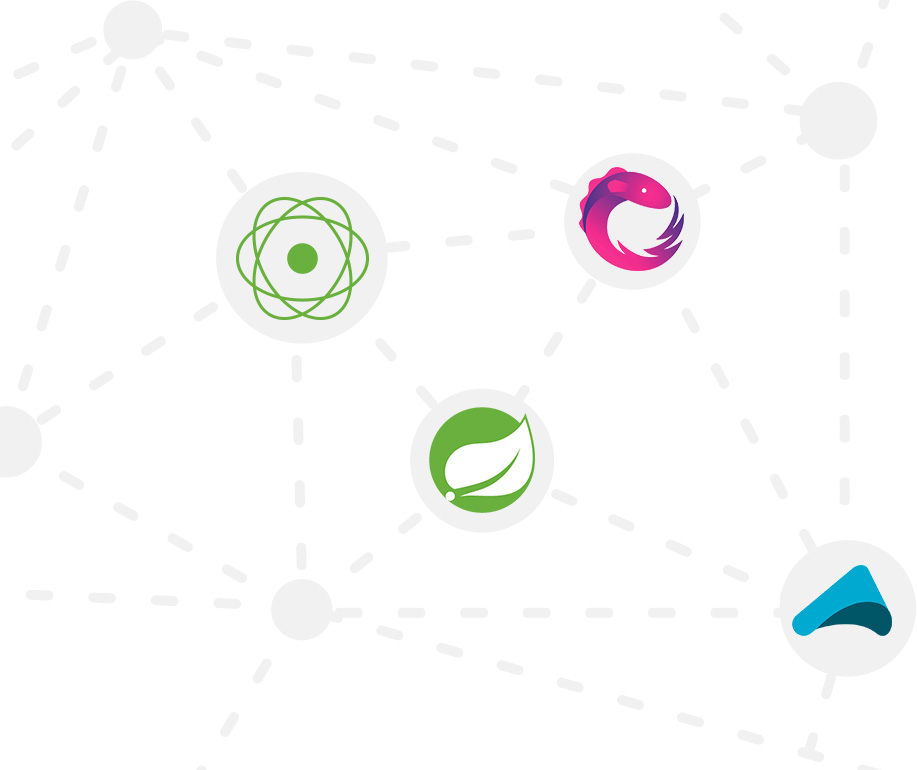
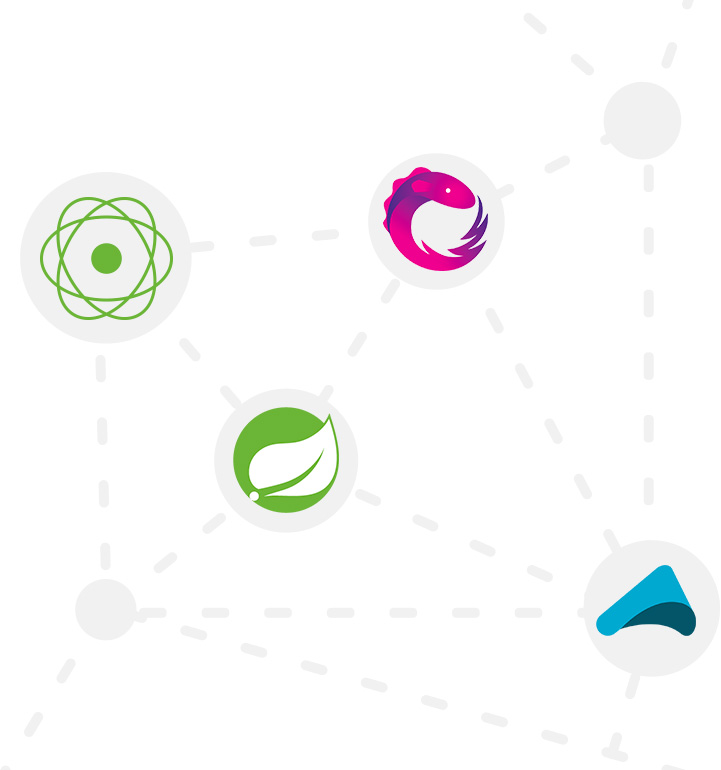
Homepage: large resolution adaptation

diff --git a/src/main/static/assets/css/main.scss b/src/main/static/assets/css/main.scss
@@ -164,7 +164,9 @@ body {
   .footer-content {
     @include clearfix();
     @extend .container;
-    max-width: 1000px;
+    max-width: 1100px;
+    padding: 0 1.5em;
+    
   }
   nav, nav ul {
     margin: 0;
@@ -384,7 +386,6 @@ span.logo-reactor {
 section#key-features {
   article {
     border-top: 1px solid #CCC;
-    padding: 3.5em 0 4em;
     font-family: $reactorFontSpecial;
     font-weight: 400;
     font-size: 16px;
@@ -395,8 +396,9 @@ section#key-features {
     div {
       max-width: 650px;
       margin: 0 auto;
-      padding: 0 2em;
+      padding: 3.5em 0 4em;
       padding-right: 350px;
+      padding-left: 20px;
       position: relative;
     }
     h1 {
@@ -407,13 +409,15 @@ section#key-features {
     }
     span.icon {
       position: absolute;
-      top: 10px;
+      top: 70px;
       right: 10px;
 
     }
     &.turbo-message-passing {
-      background: url('../img/turbomessage-bg.jpg') no-repeat right 20px;
-      background-size: 446px 353px;
+      div {
+        background: url('../img/turbomessage-bg.jpg') no-repeat right 20px;
+        background-size: 446px 353px;
+      }
       span.icon {
         display: block;
         width: 166px;
@@ -425,18 +429,21 @@ section#key-features {
 
     }
     &.friendly-adoption {
+      background: white;
       div {
-        padding-right: 0;
+        padding-right: 20px;
         padding-left: 350px;
         text-align: right;
+        background: white url('../img/friendlyadoption-bg.jpg') no-repeat left center;
+        background-size: 360px 385px;
       }
-      background: white url('../img/friendlyadoption-bg.jpg') no-repeat left center;
-      background-size: 458px 385px;
       //background: #ebf1e7;
     }
     &.guardian-of-the-latency {
-      background: url('../img/guardian-bg.jpg') no-repeat right center;
-      background-size: 520px 309px;
+      div {
+        background: url('../img/guardian-bg.jpg') no-repeat right center;
+        background-size: 520px 309px;
+      }
 
       span.icon {
         display: block;

diff --git a/src/main/static/index.html b/src/main/static/index.html
@@ -31,6 +31,7 @@
     <link rel="apple-touch-icon" href="assets/img/apple-touch-icon-57×57-precomposed.png" />
     <link rel="apple-touch-icon" sizes="72x72" href="assets/img/apple-touch-icon-72×72-precomposed.png" />
     <link rel="apple-touch-icon" sizes="114x114" href="assets/img/apple-touch-icon-114×114-precomposed.png" />
+
 </head>
 <body>
 

diff --git a/src/main/static/assets/css/responsive.scss b/src/main/static/assets/css/responsive.scss
@@ -98,8 +98,10 @@
   }
 
   section#key-features article {
-    background: transparent !important;
-    padding: 1.5em 0 2em;
+    div {
+      background: transparent !important;
+      padding: 1.5em 0 2em;
+    }
     div {
       padding-right: 20px;
       padding-left: 20px;
